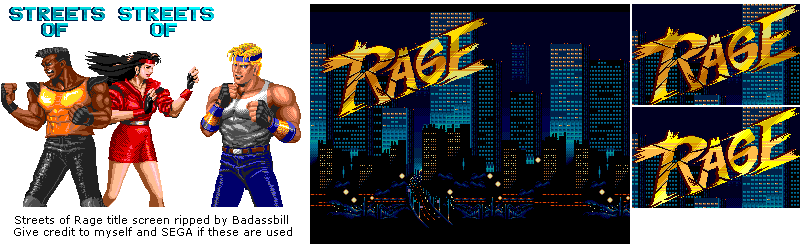
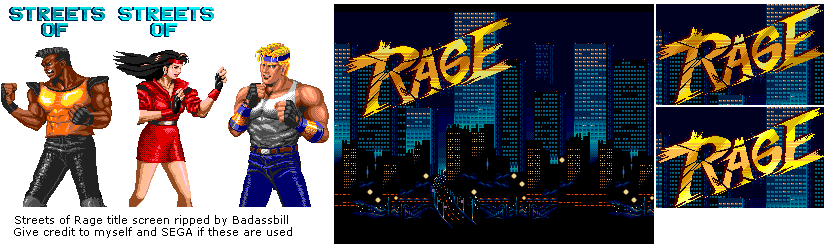
Animate intro scene

diff --git a/src/ModuleSceneIntro.cpp b/src/ModuleSceneIntro.cpp
@@ -9,8 +9,22 @@
 
 // Reference at https://www.youtube.com/watch?v=MXjaCkPWpvU
 
-ModuleSceneIntro::ModuleSceneIntro(bool active) : Module(active)
-{}
+ModuleSceneIntro::ModuleSceneIntro(bool active) 
+	: Module(active), introTimer(2000)
+{
+	// title animation
+	title.frames.push_back({ 656, 4, 168, 101 });
+	title.frames.push_back({ 656, 107, 168, 101 });
+	title.frames.push_back({ 344, 17, 168, 101 });
+	title.frames.push_back({ 656, 4, 168, 101 });
+	title.speed = 0.0f;
+
+	// subtitle animation
+	subtitle.frames.push_back({ 9, 7, 96, 30 });
+	subtitle.frames.push_back({ 118, 7, 96, 30 });
+	subtitle.frames.push_back({ 9, 7, 96, 30 });
+	subtitle.speed = 0.0f;
+}
 
 ModuleSceneIntro::~ModuleSceneIntro()
 {}
@@ -41,17 +55,96 @@ bool ModuleSceneIntro::CleanUp()
 	return true;
 }
 
-// Update: draw background
+
 update_status ModuleSceneIntro::Update()
 {
-	SDL_Rect rect;
-	rect.x = 310;
-	rect.y = 4;
-	rect.w = 320;
-	rect.h = 240;
+	introTimer.update();
 
+	// Draw background
+	SDL_Rect rectBG;
+	rectBG.x = 334;
+	rectBG.y = 4;
+	rectBG.w = 320;
+	rectBG.h = 240;
+	App->renderer->Blit(background, 0, 0, &rectBG);
 
-	App->renderer->Blit(background, 0, 0, &rect);
+	SDL_Rect rectSubtitle;
+	rectSubtitle.x = 9;
+	rectSubtitle.y = 7;
+	rectSubtitle.w = 96;
+	rectSubtitle.h = 30;
+
+	size_t animationIdx = 0;
+	unsigned short int subtitleLimitPosx = 40;
+
+	SDL_Rect rectAdam;
+	rectAdam.x = 1;
+	rectAdam.y = 42;
+	rectAdam.w = 111;
+	rectAdam.h = 165;
+
+	SDL_Rect rectBlaze;
+	rectBlaze.x = 113;
+	rectBlaze.y = 42;
+	rectBlaze.w = 114;
+	rectBlaze.h = 165;
+
+	SDL_Rect rectAxel;
+	rectAxel.x = 228;
+	rectAxel.y = 42;
+	rectAxel.w = 101;
+	rectAxel.h = 165;
+	
+	if (introState < 3 && introTimer.check()) {
+		++introState;
+	}
+
+	// Animate title & subtitle 
+	if (introState >= 3)
+	{
+		if (introTimer.check()) {
+			title.speed = 0.4f;
+			subtitle.speed = 0.1f;
+		}
+
+		if (title.speed > 0.0f) {
+			animationIdx = title.GetCurrentFrameIndex();
+			App->renderer->Blit(background, 10, 13, &(title.frames[animationIdx]));
+			if (animationIdx == title.frames.size() - 1) {
+				title.speed = 0.0f;
+				title.Reset();
+			}
+		}
+
+		if (subtitle.speed > 0.0f) {
+			animationIdx = subtitle.GetCurrentFrameIndex();
+			App->renderer->Blit(background, 40, 15, &(subtitle.frames[animationIdx]));
+			if (animationIdx == subtitle.frames.size() - 1) {
+				subtitle.speed = 0.0f;
+				subtitle.Reset();
+			}
+		}
+		else
+		{
+			App->renderer->Blit(background, 40, 15, &rectSubtitle);
+		}
+	}
+
+	// Draw subtitle with left to right transition
+	if (introState >= 1 && introState < 3)
+	{
+		if (subtitlePosx < subtitleLimitPosx) 
+			subtitlePosx += 2;
+		App->renderer->Blit(background, subtitlePosx, 15, &rectSubtitle);
+	}
+
+	// Draw main characters
+	if (introState >= 2)
+	{
+		App->renderer->Blit(background, 115, 72, &rectAdam, 1.0f, 0.95f);
+		App->renderer->Blit(background, 203, 72, &rectBlaze, 1.0f, 0.95f);
+		App->renderer->Blit(background, 165, 72, &rectAxel, 1.0f, 0.95f);
+	}
 
 	if (App->input->GetKey(SDL_SCANCODE_SPACE) == KEY_DOWN && App->fade->isFading() == false)
 	{

diff --git a/src/Animation.h b/src/Animation.h
@@ -24,7 +24,7 @@ public:
 	Animation(const Animation& anim) : loop(anim.loop), speed(anim.speed), frames(anim.frames)
 	{}
 
-	SDL_Rect& GetCurrentFrame()
+	int GetCurrentFrameIndex()
 	{
 		float last_frame = (float)frames.size();
 
@@ -34,8 +34,12 @@ public:
 			current_frame = (loop) ? 0.0f : MAX(last_frame - 1.0f, 0.0f);
 			loops++;
 		}
+		return (int)current_frame;
+	}
 
-		return frames[(int)current_frame];
+	SDL_Rect& GetCurrentFrame()
+	{
+		return frames[GetCurrentFrameIndex()];
 	}
 
 	bool Finished() const

diff --git a/src/ModuleStageTwo.cpp b/src/ModuleStageTwo.cpp
@@ -19,7 +19,7 @@ ModuleStageTwo::~ModuleStageTwo()
 // Load assets
 bool ModuleStageTwo::Start()
 {
-	LOG("Loading space scene");
+	LOG("Loading stage");
 
 	background = App->textures->Load("graphics/stage2_bg.png");
 
@@ -38,7 +38,7 @@ bool ModuleStageTwo::Start()
 // UnLoad assets
 bool ModuleStageTwo::CleanUp()
 {
-	LOG("Unloading space scene");
+	LOG("Unloading stage");
 
 	App->textures->Unload(background);
 	App->player->Disable();

diff --git a/src/ModuleSceneIntro.h b/src/ModuleSceneIntro.h
@@ -2,6 +2,8 @@
 #define __ModuleSceneIntro_H__
 
 #include "Module.h"
+#include "Animation.h"
+#include "SimpleTimer.h"
 
 struct SDL_Texture;
 
@@ -19,6 +21,12 @@ public:
 
 	SDL_Texture* background = nullptr;
 	uint fx = 0;
+	Animation title;
+	Animation subtitle;
+	bool animateTitle = false;
+	SimpleTimer introTimer;
+	unsigned short int introState = 0;
+	short int subtitlePosx = -50;
 };
 
 #endif // __ModuleSceneIntro_H__
